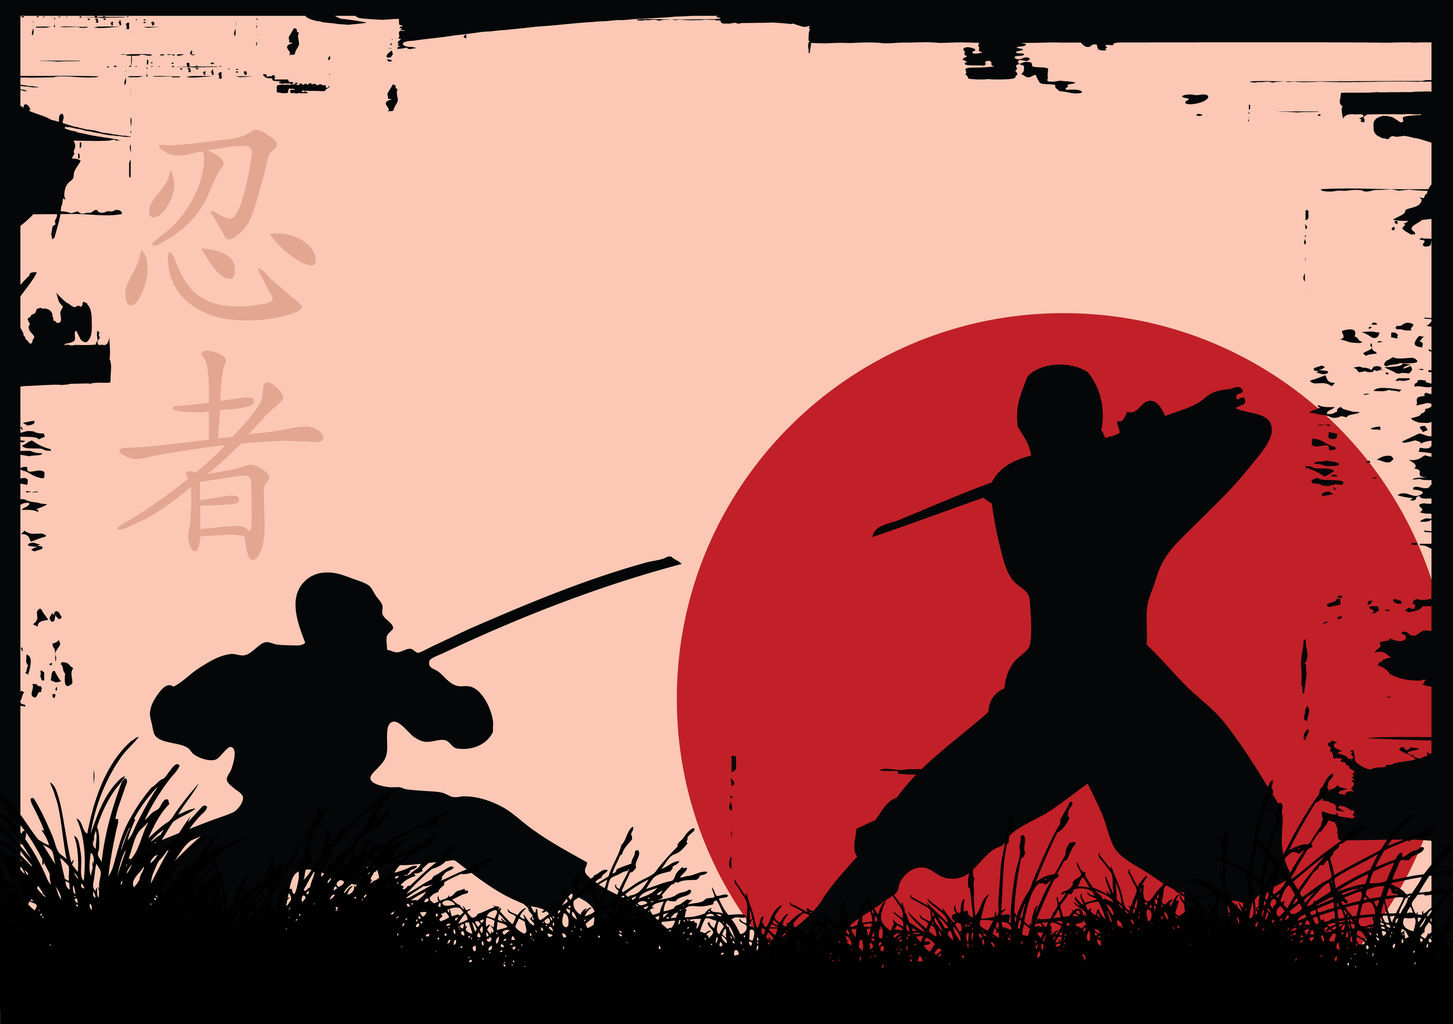
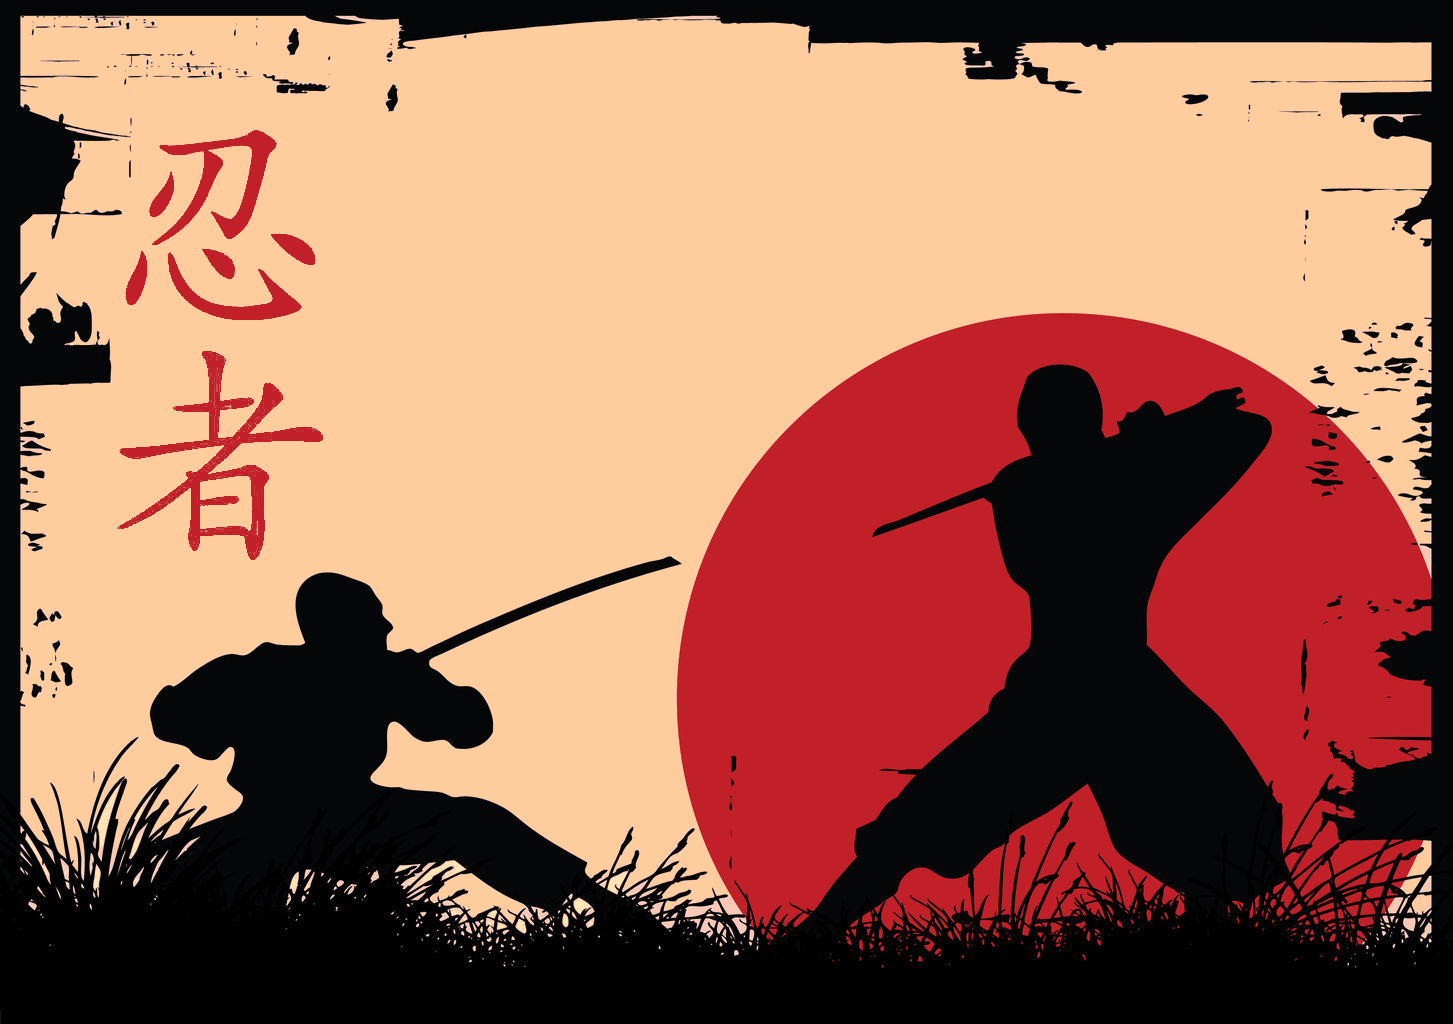
nye bilder

diff --git a/css/styles.css b/css/styles.css
@@ -56,7 +56,7 @@ html {
   padding-top: 20px;
   padding-left: 20px;
   padding-right: 20px;
-  background-image: url(https://wallpapertag.com/wallpaper/full/2/4/8/361467-japanese-background-1920x1200-for-samsung.jpg);
+  background-image: url("../img/bakgrunn1.jpg");
   background-size: cover;
 }
 /* ----------------------------------------------*/

diff --git a/javascript/game.js b/javascript/game.js
@@ -855,7 +855,7 @@ function instructionsDraw() {
 
 //history funksjonen
 function historyDraw() {
-  ctx.fillStyle = "#FFE6B3";
+  ctx.fillStyle = "#FFBD9E";
   ctx.fillRect(0, 0, canvas.width, canvas.height);
   ctx.rect(0, 0, canvas.width, canvas.height);
   ctx.stroke();
